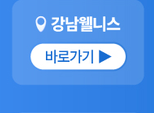
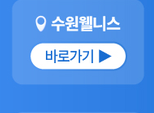
image change

diff --git a/images/wellness-recruit-image-builder.html b/images/wellness-recruit-image-builder.html
@@ -1,0 +1,208 @@
+<!DOCTYPE html>
+<html lang="ko">
+<head>
+<meta charset="utf-8">
+<meta name="viewport" content="width=device-width, initial-scale=1">
+<title>웰니스 채용공고 생성기 (이미지 방식)</title>
+<style>
+  :root{--teal:#1C9D9F;--teal-deep:#287C82;--teal-ink:#155A63;--mint:#EAF6F7;
+    --line:#DCE6E8;--ink:#26343A;--muted:#7A8C93;--bg:#F4F7F8}
+  *{box-sizing:border-box}
+  body{margin:0;background:var(--bg);color:var(--ink);
+    font-family:-apple-system,BlinkMacSystemFont,"Pretendard","Malgun Gothic",sans-serif;font-size:14px;line-height:1.6}
+  .eyebrow{font-size:11px;letter-spacing:.14em;font-weight:700;color:var(--teal);text-transform:uppercase}
+  header{background:#fff;border-bottom:1px solid var(--line);padding:22px 26px}
+  header h1{margin:6px 0 4px;font-size:20px;letter-spacing:-.02em}
+  header p{margin:0;color:var(--muted);font-size:13px}
+  .wrap{display:grid;grid-template-columns:minmax(360px,440px) 1fr;gap:22px;padding:22px 26px 70px;align-items:start}
+  @media (max-width:960px){.wrap{grid-template-columns:1fr}}
+  .sec{background:#fff;border:1px solid var(--line);border-radius:12px;padding:18px;margin-bottom:18px}
+  .sec-head{display:flex;align-items:baseline;gap:10px;margin-bottom:4px}
+  .num{font-size:12px;font-weight:800;color:var(--teal);letter-spacing:.08em}
+  .sec h2{margin:0;font-size:15px}
+  .sec .desc{margin:0 0 14px;font-size:12.5px;color:var(--muted)}
+  label{display:block;font-size:12px;color:var(--muted);margin:14px 0 5px}
+  textarea,input[type=text]{width:100%;border:1px solid var(--line);border-radius:7px;padding:9px 10px;
+    font-size:12.5px;color:var(--ink);background:#fff;font-family:ui-monospace,Menlo,Consolas,monospace}
+  textarea{min-height:260px;resize:vertical;line-height:1.8}
+  #out{min-height:200px;background:#FAFCFC;font-size:11px;line-height:1.5}
+  button{border:0;border-radius:7px;padding:10px 15px;font-size:13px;font-weight:600;
+    background:var(--teal-deep);color:#fff;cursor:pointer;font-family:inherit}
+  button:hover{background:var(--teal-ink)}
+  button.ghost{background:#fff;color:var(--teal-ink);border:1px solid var(--line)}
+  button.ghost:hover{background:var(--mint)}
+  button:focus-visible{outline:2px solid var(--teal-ink);outline-offset:2px}
+  .bar{display:flex;gap:8px;flex-wrap:wrap;align-items:center;margin-top:14px}
+  .hint{font-size:12px;color:var(--muted);margin:7px 0 0}
+  .hint code{background:var(--mint);padding:1px 5px;border-radius:3px;font-size:11.5px}
+  .status{font-size:12px;color:var(--teal-deep);min-height:16px}
+  .err{color:#C0392B;font-size:12px;margin-top:8px;white-space:pre-line}
+  .stage{background:#E6EDEF;border-radius:10px;padding:16px;overflow:auto;max-height:620px}
+  .stage-inner{margin:0 auto;background:#fff;width:700px}
+  .imgst{font-size:11.5px;margin-top:5px;color:var(--muted)}
+  .grid{display:grid;grid-template-columns:repeat(4,1fr);gap:4px;margin-top:10px}
+  .cellst{font-size:10.5px;text-align:center;padding:6px 2px;border-radius:4px;background:#F0F4F5;color:var(--muted)}
+  .cellst.ok{background:#E7F4F0;color:#1F7A5A}
+  .cellst.no{background:#FBEBE9;color:#C0392B}
+</style>
+</head>
+<body>
+
+<header>
+  <div class="eyebrow">WELL &amp; MEDI · 채용 운영 도구</div>
+  <h1>웰니스 채용공고 생성기 (이미지 방식)</h1>
+  <p>지점별 링크만 채우면 게시용 HTML이 나옵니다. 코드에 width가 없어 어느 채용사이트에서도 폭이 틀어지지 않습니다.</p>
+</header>
+
+<div class="wrap">
+  <div>
+    <section class="sec">
+      <div class="sec-head"><span class="num">01</span><h2>지점별 링크</h2></div>
+      <p class="desc">이미지에 그려진 순서라 지점명은 고정입니다. 오른쪽 링크만 채우세요. 비우면 링크 없이 그림만 들어갑니다.</p>
+      <textarea id="links" spellcheck="false"></textarea>
+      <div class="grid" id="cells"></div>
+      <div class="bar"><button class="ghost" id="fillMedijob">메디잡 검색 링크로 채우기</button></div>
+      <p class="hint">지점명은 바꾸지 마세요. 이미지 조각과 짝이 맞아야 합니다.</p>
+    </section>
+
+    <section class="sec">
+      <div class="sec-head"><span class="num">02</span><h2>작업 보관</h2></div>
+      <div class="bar">
+        <button class="ghost" id="save">현재 작업 저장</button>
+        <button class="ghost" id="loadBtn">저장 작업 불러오기</button>
+        <input type="file" id="loadFile" accept=".json" hidden>
+      </div>
+    </section>
+  </div>
+
+  <div>
+    <section class="sec">
+      <div class="eyebrow">Live preview</div>
+      <div class="sec-head" style="margin-top:6px"><h2>미리보기</h2></div>
+      <p class="desc">실제 700px 폭 그대로입니다.</p>
+      <div class="stage"><div class="stage-inner" id="preview"></div></div>
+    </section>
+
+    <section class="sec">
+      <div class="eyebrow">Publish</div>
+      <div class="sec-head" style="margin-top:6px"><h2>게시용 HTML</h2></div>
+      <textarea id="out" spellcheck="false" readonly></textarea>
+      <div class="bar">
+        <button id="copy">HTML 복사</button>
+        <button class="ghost" id="download">HTML 파일 저장</button>
+        <span class="status" id="status"></span>
+      </div>
+      <div class="err" id="err"></div>
+    </section>
+  </div>
+</div>
+
+<script>
+// 메인이미지에 그려진 순서 — 바꾸면 조각과 어긋납니다
+const GRID=[["송도","하남","광명","강남"],
+            ["광주","수원","둔촌","의정부"],
+            ["안양","동탄","마포",null]];
+const NAMES=GRID.flat().filter(Boolean);
+const BASE="https://puldogi.github.io/images";
+const MEDIJOB="https://www.medijob.cc/com/sch/com_sch_100?searchText=";
+
+const $=id=>document.getElementById(id);
+const esc=s=>String(s).replace(/&/g,"&amp;").replace(/</g,"&lt;").replace(/>/g,"&gt;").replace(/"/g,"&quot;");
+
+function parseLinks(){
+  const map={},errs=[];
+  $("links").value.split(/\r?\n/).forEach((line,i)=>{
+    const t=line.trim(); if(!t) return;
+    const c=t.split(/\t|\s*\|\s*/).map(x=>x.trim());
+    const name=c[0].replace(/웰니스.*$/,"");
+    if(!NAMES.includes(name)){ errs.push((i+1)+"행: 모르는 지점명 → "+c[0]); return; }
+    let url=c[1]||"";
+    if(url&&!/^https?:\/\//i.test(url)) url="https://"+url;
+    map[name]=url;
+  });
+  return {map,errs};
+}
+
+function build(base,map,local){
+  const p=local?"":(base?base.replace(/\/+$/,"")+"/":"");
+  const pad='style="padding:0;font-size:0;line-height:0;"';
+  let h='<table border="0" cellpadding="0" cellspacing="0" align="center" style="border-collapse:collapse;margin:0 auto;">\n<tbody>\n';
+  h+='<tr><td colspan="4" '+pad+'><img src="'+esc(p+"top.png")+'" border="0" alt="웰니스건강검진센터 채용공고" style="display:block;border:0;"></td></tr>\n';
+  GRID.forEach((row,r)=>{
+    h+='<tr>\n';
+    row.forEach((name,c)=>{
+      const file=p+"btn_r"+(r+1)+"c"+(c+1)+".png";
+      let img='<img src="'+esc(file)+'" border="0" alt="'+(name?esc(name)+'웰니스 채용 바로가기':'')+'" style="display:block;border:0;">';
+      const url=name?map[name]:"";
+      if(url) img='<a href="'+esc(url)+'" target="_blank" rel="noopener noreferrer" style="display:block;text-decoration:none;">'+img+'</a>';
+      h+='  <td '+pad+'>'+img+'</td>\n';
+    });
+    h+='</tr>\n';
+  });
+  h+='<tr><td colspan="4" '+pad+'><img src="'+esc(p+"bottom.png")+'" border="0" alt="지원 방법 및 채용 절차" style="display:block;border:0;"></td></tr>\n';
+  h+='</tbody>\n</table>';
+  return h;
+}
+
+function render(){
+  const {map,errs}=parseLinks();
+  $("err").textContent=errs.join("\n");
+  $("cells").innerHTML=GRID.flat().map(n=>{
+    if(!n) return '<div class="cellst">·</div>';
+    const ok=!!map[n];
+    return '<div class="cellst '+(ok?"ok":"no")+'">'+n+(ok?" ✓":" 링크없음")+'</div>';
+  }).join("");
+  const html=build(BASE,map,false);
+  $("out").value=html;
+  $("preview").innerHTML=html;
+}
+
+let t;
+$("links").addEventListener("input",()=>{clearTimeout(t);t=setTimeout(render,300);});
+
+$("fillMedijob").addEventListener("click",()=>{
+  $("links").value=NAMES.map(n=>n+" | "+MEDIJOB+encodeURIComponent(n+"웰니스")).join("\n");
+  render();
+});
+
+$("save").addEventListener("click",()=>{
+  const blob=new Blob([JSON.stringify({links:$("links").value},null,2)],{type:"application/json"});
+  const a=document.createElement("a");
+  a.href=URL.createObjectURL(blob);
+  a.download="wellness-recruit-image-"+new Date().toISOString().slice(0,10)+".json";
+  a.click(); URL.revokeObjectURL(a.href);
+  $("status").textContent="저장했습니다."; setTimeout(()=>$("status").textContent="",2000);
+});
+$("loadBtn").addEventListener("click",()=>$("loadFile").click());
+$("loadFile").addEventListener("change",e=>{
+  const f=e.target.files[0]; if(!f) return;
+  const r=new FileReader();
+  r.onload=()=>{ try{ const s=JSON.parse(r.result);
+    if(s.links!==undefined)$("links").value=s.links;
+    render(); $("status").textContent="불러왔습니다.";
+  }catch(err){ $("status").textContent="파일을 읽지 못했습니다."; }
+  setTimeout(()=>$("status").textContent="",2500); };
+  r.readAsText(f); e.target.value="";
+});
+
+$("copy").addEventListener("click",async()=>{
+  try{ await navigator.clipboard.writeText($("out").value); }
+  catch(e){ $("out").removeAttribute("readonly"); $("out").select();
+    document.execCommand("copy"); $("out").setAttribute("readonly",""); }
+  $("status").textContent="복사했습니다."; setTimeout(()=>$("status").textContent="",2000);
+});
+$("download").addEventListener("click",()=>{
+  const doc='<!DOCTYPE html><html lang="ko"><head><meta charset="utf-8"><title>웰니스 채용공고</title></head>'
+    +'<body style="margin:0;padding:20px 0;background:#fff;">\n'+$("out").value+'\n</body></html>';
+  const blob=new Blob([doc],{type:"text/html;charset=utf-8"});
+  const a=document.createElement("a");
+  a.href=URL.createObjectURL(blob); a.download="wellness-recruit.html"; a.click();
+  URL.revokeObjectURL(a.href);
+  $("status").textContent="저장했습니다."; setTimeout(()=>$("status").textContent="",2000);
+});
+
+$("links").value=NAMES.map(n=>n+" | ").join("\n");
+render();
+</script>
+</body>
+</html>
